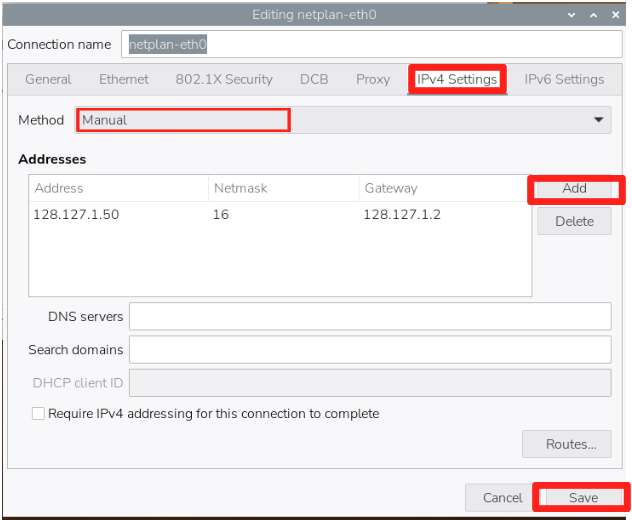
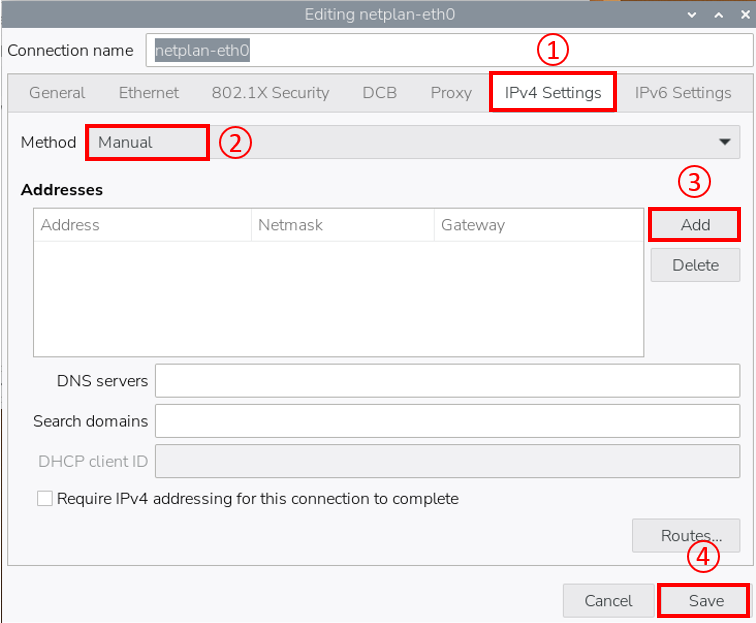
Redact all IP's shown in setup.md

Changed region(s): [[0.0, 0.0, 1.0, 1.0], [0.5712, 0.4, 0.6915, 0.4308], [0.3307, 0.4, 0.3608, 0.4308]]

diff --git a/docs/SETUP.md b/docs/SETUP.md
@@ -69,7 +69,7 @@ chmod +x setup.sh
 Once the script has completed running, you should see this message displayed in the terminal:
 ```
 Remaining manual steps (on deployment ground):
-    1. Copy SSH key to FS1:    ssh-copy-id cate@128.127.1.50
+    1. Copy SSH key to FS1:    ssh-copy-id cate@{FS1 IP Address}
     2. Verify stations.json is correct on FS1
     3. Start service:          sudo systemctl start pa-audio
         Or reboot:             sudo reboot
@@ -87,12 +87,11 @@ After `setup.sh` completes, configure the static IP for the deployment network:
 4. Go to the **IPv4 Settings** tab.
 5. Change **Method** from `Automatic (DHCP)` to **Manual**.
 6. Under **Addresses**, click **Add** and enter:
-   - **Address**: The station's IP (e.g. `128.127.2.50`)
-   - **Netmask**: `255.255.0.0`
-   - **Gateway**: The network gateway (e.g. `128.127.2.1`)
-
-![image2](images/image2.png)
+   - **Address**: The station's IP
+   - **Netmask**: The network netmask
+   - **Gateway**: The network gateway
 7. Click **Save** and close the window.
+![image2](images/image2.png)
 
 This will take effect when the LAN cable is plugged in onsite.
 
@@ -114,7 +113,7 @@ Once you have successfully SSH, run this command:
 ```
 ssh-copy-id cate@128.127.1.50
 ```
-2. Using [VNC software](#vnc-viewer), access **FS1 (128.127.1.50)**.
+2. Using [VNC software](#vnc-viewer), access **FS1**.
    1. Open Terminal through VNC and run this command:
 
 ```
